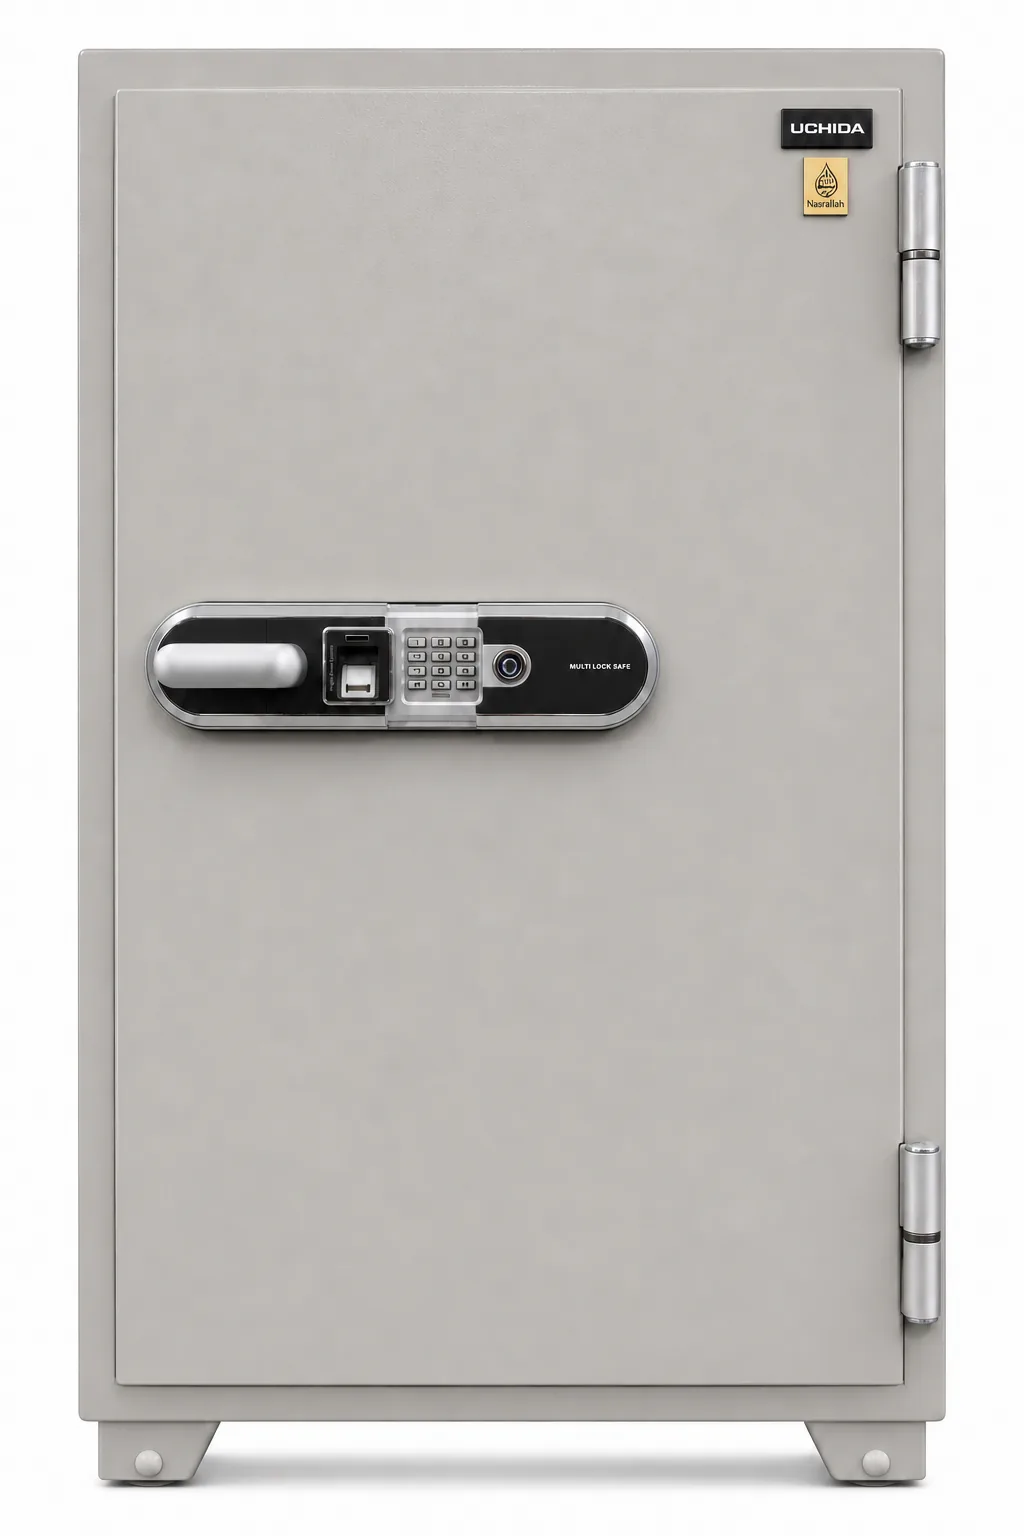
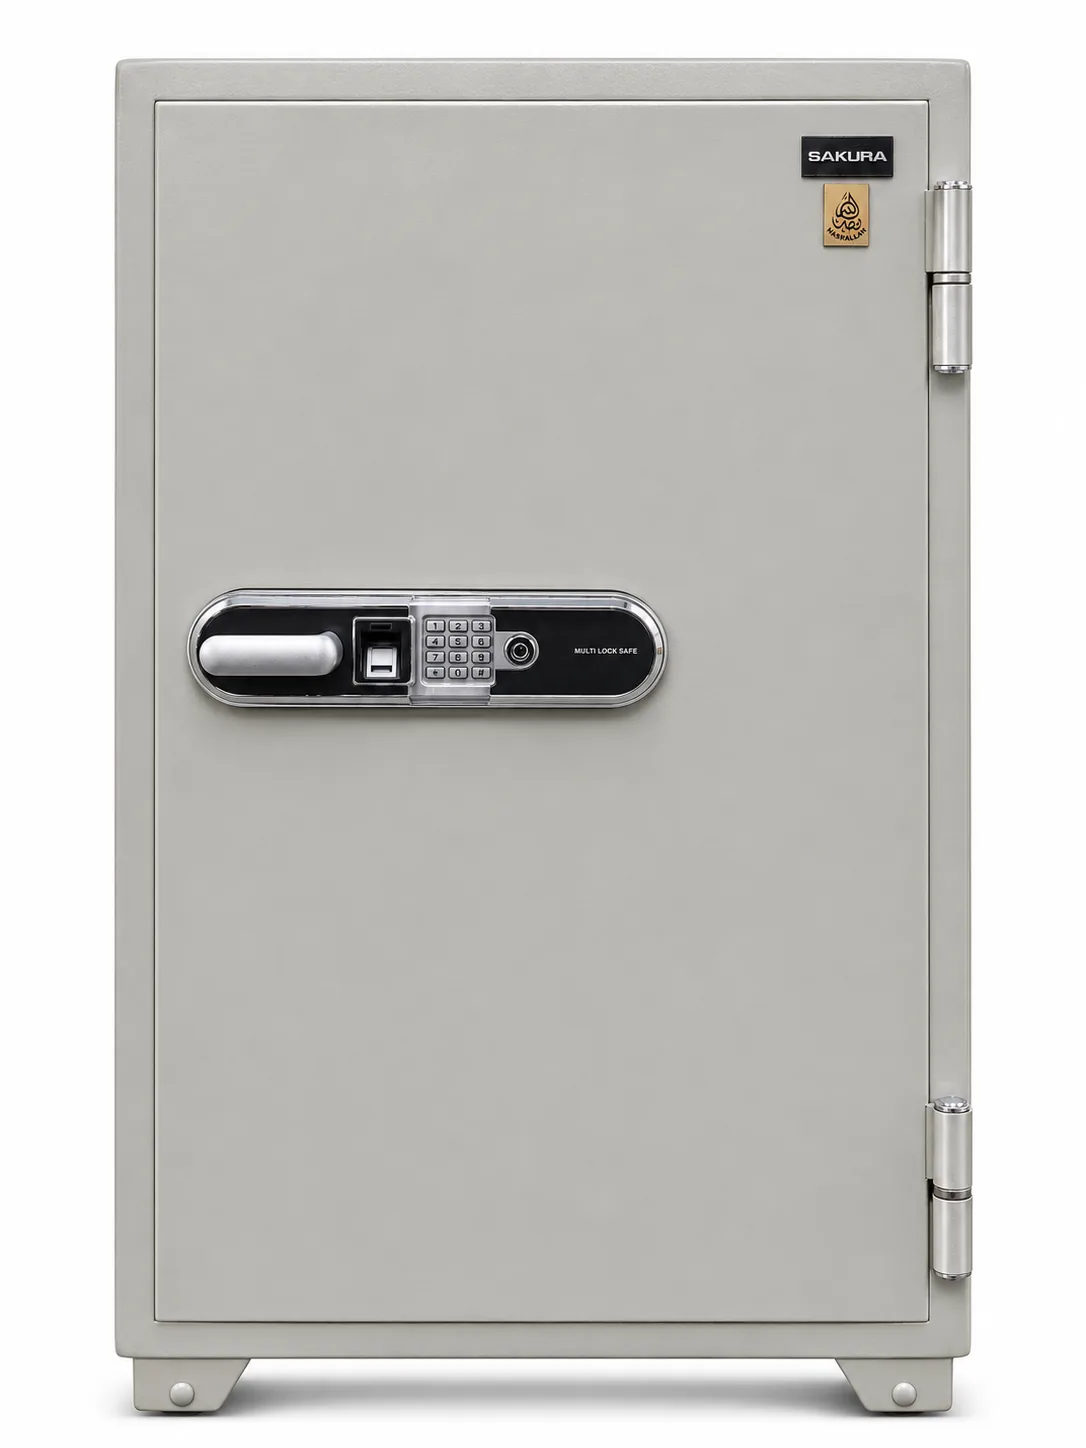
Re-sort SAKURA and GODREJ photos; add the SAKURA ONS-FE safe
- Multi-lock safe: new SAKURA-badged photo
- New SAKURA ONS-FE fingerprint safe (black, keypad and fingerprint handle)
- The lockers filed under SAKURA belong to GODREJ: the single locker
  moves to GODREJ and the off-white six-door locker becomes a second
  colour of the GODREJ six-door locker; old addresses 301-redirect
- SAKURA copy now describes safes only; lockers are GODREJ

Changed region(s): [[0.0625, 0.0311, 0.9375, 0.9945]]

diff --git a/src/lib/sample-data.ts b/src/lib/sample-data.ts
@@ -245,7 +245,7 @@ export const sampleProducts: Product[] = [
       'تجمع خزنة SAKURA متعددة الأقفال ثلاث وسائل للقفل في لوحة تحكم واحدة: قارئ بصمة، ولوحة أرقام رقمية، ومفتاح ميكانيكي. ويُحمل بابها المتين على مفصلتين خارجيتين، وتقف الخزنة على قاعدة مرتفعة.',
     ),
     images: [
-      img('sakura-multi-lock-safe', 1024, 1536, 'Grey SAKURA multi-lock steel safe with a fingerprint and keypad panel'),
+      img('sakura-multi-lock-safe', 1086, 1448, 'Grey SAKURA multi-lock steel safe with a fingerprint and keypad panel'),
       img('sakura-multi-lock-safe-lock', 1536, 1024, 'Close-up of the fingerprint scanner, keypad and key lock'),
     ],
     specTable: [
@@ -256,6 +256,29 @@ export const sampleProducts: Product[] = [
     ],
     isFeatured: false,
     order: 8,
+  },
+  {
+    _id: 'p24',
+    slug: 'sakura-ons-fe-fingerprint-safe',
+    name: { en: 'SAKURA ONS-FE Fingerprint Safe', ar: 'خزنة SAKURA بالبصمة ONS-FE' },
+    category: cash,
+    shortDesc: {
+      en: 'A black SAKURA steel safe with a vertical handle that combines a digital keypad and a fingerprint scanner.',
+      ar: 'خزنة حديدية سوداء من SAKURA بمقبض عمودي يجمع بين لوحة أرقام رقمية وقارئ بصمة.',
+    },
+    fullDesc: desc(
+      'The ONS-FE puts a digital keypad and a fingerprint scanner into one vertical handle on a clean black door, so the safe opens quickly for the people you trust and stays shut for everyone else.',
+      'تجمع خزنة ONS-FE لوحة أرقام رقمية وقارئ بصمة في مقبض عمودي واحد على باب أسود أنيق، فتُفتح بسرعة لمن تثقون بهم وتبقى مغلقة أمام غيرهم.',
+    ),
+    images: [img('sakura-ons-fe-safe', 1086, 1448, 'Black SAKURA ONS-FE steel safe with a vertical keypad and fingerprint handle')],
+    specTable: [
+      brandSpec('SAKURA'),
+      spec('Model', 'الطراز', 'ONS-FE', 'ONS-FE'),
+      spec('Lock', 'القفل', 'Digital keypad and fingerprint scanner', 'لوحة أرقام رقمية وقارئ بصمة'),
+      spec('Finish', 'اللون', 'Black', 'أسود'),
+    ],
+    isFeatured: false,
+    order: 9,
   },
   {
     _id: 'p9',
@@ -282,7 +305,7 @@ export const sampleProducts: Product[] = [
       spec('Colours', 'الألوان', 'White, beige', 'أبيض، بيج'),
     ],
     isFeatured: false,
-    order: 9,
+    order: 10,
   },
   {
     _id: 'p10',
@@ -306,7 +329,7 @@ export const sampleProducts: Product[] = [
       spec('Colour', 'اللون', 'Beige', 'بيج'),
     ],
     isFeatured: false,
-    order: 10,
+    order: 11,
   },
   {
     _id: 'p11',
@@ -330,7 +353,7 @@ export const sampleProducts: Product[] = [
       spec('Colour', 'اللون', 'Light grey', 'رمادي فاتح'),
     ],
     isFeatured: false,
-    order: 11,
+    order: 12,
   },
   {
     _id: 'p12',
@@ -357,7 +380,7 @@ export const sampleProducts: Product[] = [
       spec('Colours', 'الألوان', 'Grey, beige', 'رمادي، بيج'),
     ],
     isFeatured: false,
-    order: 12,
+    order: 13,
   },
   {
     _id: 'p13',
@@ -381,7 +404,7 @@ export const sampleProducts: Product[] = [
       spec('Colour', 'اللون', 'White', 'أبيض'),
     ],
     isFeatured: false,
-    order: 13,
+    order: 14,
   },
   {
     _id: 'p14',
@@ -404,7 +427,7 @@ export const sampleProducts: Product[] = [
       spec('Handles', 'المقابض', 'Chrome', 'كروم'),
     ],
     isFeatured: false,
-    order: 14,
+    order: 15,
   },
   {
     _id: 'p15',
@@ -428,7 +451,7 @@ export const sampleProducts: Product[] = [
       spec('Colours', 'الألوان', 'Charcoal doors, cream frame', 'أبواب فحمية، إطار كريمي'),
     ],
     isFeatured: false,
-    order: 15,
+    order: 16,
   },
   {
     _id: 'p16',
@@ -452,7 +475,7 @@ export const sampleProducts: Product[] = [
       spec('Colours', 'الألوان', 'Charcoal doors, cream frame', 'أبواب فحمية، إطار كريمي'),
     ],
     isFeatured: false,
-    order: 16,
+    order: 17,
   },
   {
     _id: 'p17',
@@ -476,7 +499,7 @@ export const sampleProducts: Product[] = [
       spec('Colour', 'اللون', 'Cream', 'كريمي'),
     ],
     isFeatured: false,
-    order: 17,
+    order: 18,
   },
   {
     _id: 'p18',
@@ -484,27 +507,30 @@ export const sampleProducts: Product[] = [
     name: { en: 'GODREJ Six-Door Steel Locker', ar: 'لوكر حديدي بستة أبواب GODREJ' },
     category: lockers,
     shortDesc: {
-      en: 'A beige six-door steel locker column, for keeping personal belongings apart in busy workplaces.',
-      ar: 'عمود لوكر حديدي بيج بستة أبواب، لفصل المتعلقات الشخصية في أماكن العمل المزدحمة.',
+      en: 'A six-door steel locker column in beige or off-white, for keeping personal belongings apart in busy workplaces.',
+      ar: 'عمود لوكر حديدي بستة أبواب باللون البيج أو الأبيض العاجي، لفصل المتعلقات الشخصية في أماكن العمل المزدحمة.',
     },
     fullDesc: desc(
       'Six compartments, each behind its own door with a pull handle, fit in the footprint of a single cupboard.',
       'ست خانات، لكل منها باب بمقبض، في مساحة خزانة واحدة.',
     ),
-    images: [img('godrej-six-door-locker', 1024, 1536, 'Beige six-door GODREJ steel locker column')],
+    images: [
+      img('godrej-six-door-locker', 1024, 1536, 'Beige six-door GODREJ steel locker column'),
+      img('godrej-six-door-locker-off-white', 1024, 1536, 'Off-white six-door GODREJ steel locker column'),
+    ],
     specTable: [
       brandSpec('GODREJ'),
       steel,
       spec('Compartments', 'الخانات', 'Six', 'ست خانات'),
-      spec('Colour', 'اللون', 'Beige', 'بيج'),
+      spec('Colours', 'الألوان', 'Beige, off-white', 'بيج، أبيض عاجي'),
     ],
     isFeatured: false,
-    order: 18,
+    order: 19,
   },
   {
     _id: 'p19',
-    slug: 'sakura-single-steel-locker',
-    name: { en: 'SAKURA Single Steel Locker', ar: 'لوكر حديدي بباب واحد SAKURA' },
+    slug: 'godrej-single-steel-locker',
+    name: { en: 'GODREJ Single Steel Locker', ar: 'لوكر حديدي بباب واحد GODREJ' },
     category: lockers,
     shortDesc: {
       en: 'A full-height single steel locker with a louvred charcoal door on a cream frame.',
@@ -514,36 +540,13 @@ export const sampleProducts: Product[] = [
       'One tall compartment with room for clothes and bags, ventilated through louvres at the top of the door.',
       'خانة واحدة طويلة تتسع للملابس والحقائب، مع فتحات تهوية أعلى الباب.',
     ),
-    images: [img('sakura-single-locker', 1024, 1536, 'Single SAKURA steel locker with a louvred charcoal door')],
+    images: [img('godrej-single-locker', 1024, 1536, 'Single GODREJ steel locker with a louvred charcoal door')],
     specTable: [
-      brandSpec('SAKURA'),
+      brandSpec('GODREJ'),
       steel,
       spec('Compartments', 'الخانات', 'One, full height', 'خانة واحدة بارتفاع كامل'),
       spec('Ventilation', 'التهوية', 'Louvred door', 'فتحات تهوية في الباب'),
       spec('Colours', 'الألوان', 'Charcoal door, cream frame', 'باب فحمي، إطار كريمي'),
-    ],
-    isFeatured: false,
-    order: 19,
-  },
-  {
-    _id: 'p20',
-    slug: 'sakura-six-door-steel-locker',
-    name: { en: 'SAKURA Six-Door Steel Locker', ar: 'لوكر حديدي بستة أبواب SAKURA' },
-    category: lockers,
-    shortDesc: {
-      en: 'An off-white six-door steel locker column with a pull handle on every door.',
-      ar: 'عمود لوكر حديدي أبيض مائل للعاجي بستة أبواب ومقبض لكل باب.',
-    },
-    fullDesc: desc(
-      'Six stacked compartments give each person their own space for keys, phones and personal items.',
-      'ست خانات متراصّة تمنح كل شخص مكانًا خاصًا لمفاتيحه وهاتفه وأغراضه الشخصية.',
-    ),
-    images: [img('sakura-six-door-locker', 1024, 1536, 'Off-white six-door SAKURA steel locker column')],
-    specTable: [
-      brandSpec('SAKURA'),
-      steel,
-      spec('Compartments', 'الخانات', 'Six', 'ست خانات'),
-      spec('Colour', 'اللون', 'Off-white', 'أبيض عاجي'),
     ],
     isFeatured: false,
     order: 20,
@@ -570,7 +573,7 @@ export const sampleProducts: Product[] = [
       spec('Colours', 'الألوان', 'Cream drawers, light-grey frame', 'أدراج كريمية، إطار رمادي فاتح'),
     ],
     isFeatured: false,
-    order: 21,
+    order: 22,
   },
   {
     _id: 'p22',
@@ -594,7 +597,7 @@ export const sampleProducts: Product[] = [
       spec('Colours', 'الألوان', 'Cream drawers, light-grey frame', 'أدراج كريمية، إطار رمادي فاتح'),
     ],
     isFeatured: false,
-    order: 22,
+    order: 23,
   },
   {
     _id: 'p23',
@@ -621,6 +624,6 @@ export const sampleProducts: Product[] = [
       spec('Colours', 'الألوان', 'Light grey, black', 'رمادي فاتح، أسود'),
     ],
     isFeatured: false,
-    order: 23,
+    order: 24,
   },
 ]

diff --git a/src/i18n/dictionaries/ar.ts b/src/i18n/dictionaries/ar.ts
@@ -63,7 +63,7 @@ const ar: Dictionary = {
       },
       {
         name: 'SAKURA',
-        desc: 'اسم موثوق في الخزائن واللوكرات الحديدية، للمنازل والمكاتب والمؤسسات.',
+        desc: 'اسم موثوق في الخزائن، بأقفال حديثة بالبصمة والأرقام، للمنازل والمكاتب والمؤسسات.',
       },
       {
         name: 'GODREJ',
@@ -122,7 +122,7 @@ const ar: Dictionary = {
       },
       {
         q: 'هل لديكم خزائن حديدية وتجوري حديد؟',
-        a: 'نعم. الخزنة الحديدية أو التجوري الحديد أساس عملنا، ولدينا أيضًا خزائن حديدية مكتبية بباب أو بابين أو بأبواب زجاجية، وخزائن ملفات ولوكرات حديدية من GODREJ وSAKURA للمكاتب والمدارس والمؤسسات.',
+        a: 'نعم. الخزنة الحديدية أو التجوري الحديد أساس عملنا، ولدينا أيضًا خزائن حديدية مكتبية بباب أو بابين أو بأبواب زجاجية، وخزائن ملفات ولوكرات حديدية من GODREJ للمكاتب والمدارس والمؤسسات.',
       },
       {
         q: 'هل تبيعون خزائن مقاومة للحريق في قطر؟',

diff --git a/src/i18n/dictionaries/en.ts b/src/i18n/dictionaries/en.ts
@@ -61,7 +61,7 @@ const en = {
       },
       {
         name: 'SAKURA',
-        desc: 'A trusted name in safes and steel lockers, for homes, offices and institutions.',
+        desc: 'A trusted name in safes, with modern fingerprint and keypad locks, for homes, offices and institutions.',
       },
       {
         name: 'GODREJ',
@@ -120,7 +120,7 @@ const en = {
       },
       {
         q: 'Do you sell steel safes and steel cabinets?',
-        a: 'Yes. Steel safes are the heart of our business, and we also carry steel office cupboards with one, two or glass doors, filing cabinets and steel lockers from GODREJ and SAKURA for offices, schools and institutions.',
+        a: 'Yes. Steel safes are the heart of our business, and we also carry steel office cupboards with one, two or glass doors, filing cabinets and steel lockers from GODREJ for offices, schools and institutions.',
       },
       {
         q: 'Do you sell fire-resistant safes in Qatar?',
